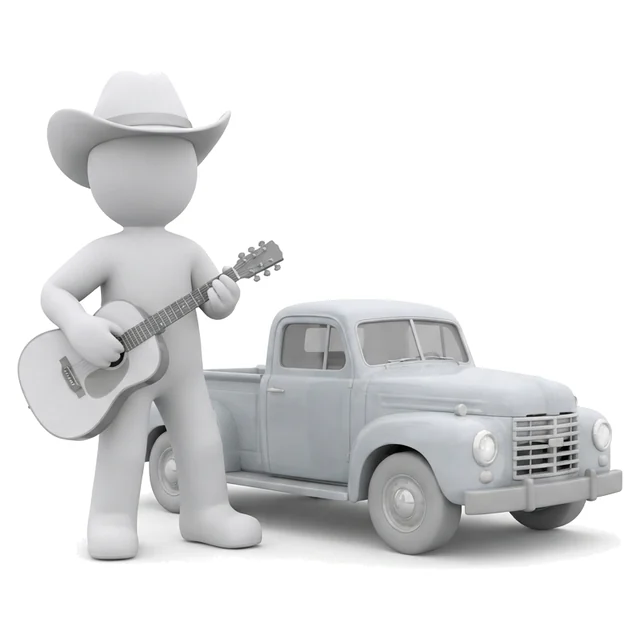
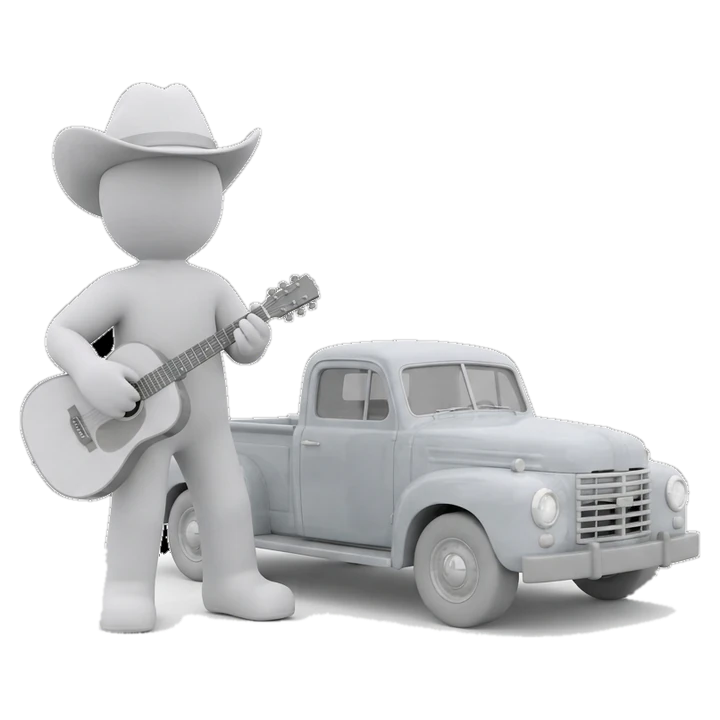
Aftershow: dark room and stage for the clay mannequin acts
Cleaned the floor-shadow dust off the new black-background pictures, made them transparent, and put them back on a dark living room and stage.

diff --git a/aftershow-site/app.html b/aftershow-site/app.html
@@ -12,35 +12,35 @@
 <script>(function(){var t=null;try{t=localStorage.getItem("aftershow-theme")}catch(e){}if(t!=="dark"&&t!=="light")t=(window.matchMedia&&matchMedia("(prefers-color-scheme: light)").matches)?"light":"dark";document.documentElement.dataset.theme=t;})();</script>
 <link rel="preload" href="fonts/inter-variable.woff2" as="font" type="font/woff2" crossorigin>
 <link rel="preload" href="fonts/playfair-display-italic-700.woff2" as="font" type="font/woff2" crossorigin>
-<script type="importmap">{"imports": {"./js/activity.js": "./js/activity.js?v=202611161754", "./js/backends/demo.js": "./js/backends/demo.js?v=202611161754", "./js/config.js": "./js/config.js?v=202611161754", "./js/covers.js": "./js/covers.js?v=202611161754", "./js/csv.js": "./js/csv.js?v=202611161754", "./js/main.js": "./js/main.js?v=202611161754", "./js/photo.js": "./js/photo.js?v=202611161754", "./js/rails.js": "./js/rails.js?v=202611161754", "./js/router.js": "./js/router.js?v=202611161754", "./js/share.js": "./js/share.js?v=202611161754", "./js/social.js": "./js/social.js?v=202611161754", "./js/theme.js": "./js/theme.js?v=202611161754", "./js/ui.js": "./js/ui.js?v=202611161754", "./js/util.js": "./js/util.js?v=202611161754", "./js/views/activity.js": "./js/views/activity.js?v=202611161754", "./js/views/archive.js": "./js/views/archive.js?v=202611161754", "./js/views/discover.js": "./js/views/discover.js?v=202611161754", "./js/views/entry.js": "./js/views/entry.js?v=202611161754", "./js/views/feed.js": "./js/views/feed.js?v=202611161754", "./js/views/import.js": "./js/views/import.js?v=202611161754", "./js/views/log.js": "./js/views/log.js?v=202611161754", "./js/views/onboarding.js": "./js/views/onboarding.js?v=202611161754", "./js/views/photoField.js": "./js/views/photoField.js?v=202611161754", "./js/views/profile.js": "./js/views/profile.js?v=202611161754", "./js/views/settings.js": "./js/views/settings.js?v=202611161754", "./js/views/stageScene.js": "./js/views/stageScene.js?v=202611161754", "./js/views/vote.js": "./js/views/vote.js?v=202611161754"}}</script>
+<script type="importmap">{"imports": {"./js/activity.js": "./js/activity.js?v=202611161820", "./js/backends/demo.js": "./js/backends/demo.js?v=202611161820", "./js/backends/supabase.js": "./js/backends/supabase.js?v=202611161820", "./js/config.js": "./js/config.js?v=202611161820", "./js/covers.js": "./js/covers.js?v=202611161820", "./js/csv.js": "./js/csv.js?v=202611161820", "./js/main.js": "./js/main.js?v=202611161820", "./js/photo.js": "./js/photo.js?v=202611161820", "./js/rails.js": "./js/rails.js?v=202611161820", "./js/router.js": "./js/router.js?v=202611161820", "./js/share.js": "./js/share.js?v=202611161820", "./js/social.js": "./js/social.js?v=202611161820", "./js/theme.js": "./js/theme.js?v=202611161820", "./js/ui.js": "./js/ui.js?v=202611161820", "./js/util.js": "./js/util.js?v=202611161820", "./js/views/activity.js": "./js/views/activity.js?v=202611161820", "./js/views/archive.js": "./js/views/archive.js?v=202611161820", "./js/views/discover.js": "./js/views/discover.js?v=202611161820", "./js/views/entry.js": "./js/views/entry.js?v=202611161820", "./js/views/feed.js": "./js/views/feed.js?v=202611161820", "./js/views/import.js": "./js/views/import.js?v=202611161820", "./js/views/log.js": "./js/views/log.js?v=202611161820", "./js/views/onboarding.js": "./js/views/onboarding.js?v=202611161820", "./js/views/photoField.js": "./js/views/photoField.js?v=202611161820", "./js/views/profile.js": "./js/views/profile.js?v=202611161820", "./js/views/settings.js": "./js/views/settings.js?v=202611161820", "./js/views/stageScene.js": "./js/views/stageScene.js?v=202611161820", "./js/views/vote.js": "./js/views/vote.js?v=202611161820"}}</script>
 <link rel="stylesheet" href="css/fonts.css">
-<link rel="stylesheet" href="ui.css?v=202611161754">
-<link rel="modulepreload" href="js/main.js?v=202611161754">
-<link rel="modulepreload" href="js/ui.js?v=202611161754">
-<link rel="modulepreload" href="js/util.js?v=202611161754">
-<link rel="modulepreload" href="js/router.js?v=202611161754">
-<link rel="modulepreload" href="js/theme.js?v=202611161754">
-<link rel="modulepreload" href="js/covers.js?v=202611161754">
-<link rel="modulepreload" href="js/activity.js?v=202611161754">
-<link rel="modulepreload" href="js/social.js?v=202611161754">
-<link rel="modulepreload" href="js/rails.js?v=202611161754">
-<link rel="modulepreload" href="js/config.js?v=202611161754">
-<link rel="modulepreload" href="js/views/archive.js?v=202611161754">
-<link rel="modulepreload" href="js/views/feed.js?v=202611161754">
-<link rel="modulepreload" href="js/views/entry.js?v=202611161754">
-<link rel="modulepreload" href="js/views/log.js?v=202611161754">
-<link rel="modulepreload" href="js/views/discover.js?v=202611161754">
-<link rel="modulepreload" href="js/views/profile.js?v=202611161754">
-<link rel="modulepreload" href="js/views/settings.js?v=202611161754">
-<link rel="modulepreload" href="js/views/onboarding.js?v=202611161754">
-<link rel="modulepreload" href="js/views/stageScene.js?v=202611161754">
-<link rel="modulepreload" href="js/views/import.js?v=202611161754">
-<link rel="modulepreload" href="js/views/activity.js?v=202611161754">
-<link rel="modulepreload" href="js/views/vote.js?v=202611161754">
-<link rel="modulepreload" href="js/views/photoField.js?v=202611161754">
-<link rel="modulepreload" href="js/photo.js?v=202611161754">
-<link rel="modulepreload" href="js/share.js?v=202611161754">
-<link rel="modulepreload" href="js/csv.js?v=202611161754">
+<link rel="stylesheet" href="ui.css?v=202611161820">
+<link rel="modulepreload" href="js/main.js?v=202611161820">
+<link rel="modulepreload" href="js/ui.js?v=202611161820">
+<link rel="modulepreload" href="js/util.js?v=202611161820">
+<link rel="modulepreload" href="js/router.js?v=202611161820">
+<link rel="modulepreload" href="js/theme.js?v=202611161820">
+<link rel="modulepreload" href="js/covers.js?v=202611161820">
+<link rel="modulepreload" href="js/activity.js?v=202611161820">
+<link rel="modulepreload" href="js/social.js?v=202611161820">
+<link rel="modulepreload" href="js/rails.js?v=202611161820">
+<link rel="modulepreload" href="js/config.js?v=202611161820">
+<link rel="modulepreload" href="js/views/archive.js?v=202611161820">
+<link rel="modulepreload" href="js/views/feed.js?v=202611161820">
+<link rel="modulepreload" href="js/views/entry.js?v=202611161820">
+<link rel="modulepreload" href="js/views/log.js?v=202611161820">
+<link rel="modulepreload" href="js/views/discover.js?v=202611161820">
+<link rel="modulepreload" href="js/views/profile.js?v=202611161820">
+<link rel="modulepreload" href="js/views/settings.js?v=202611161820">
+<link rel="modulepreload" href="js/views/onboarding.js?v=202611161820">
+<link rel="modulepreload" href="js/views/stageScene.js?v=202611161820">
+<link rel="modulepreload" href="js/views/import.js?v=202611161820">
+<link rel="modulepreload" href="js/views/activity.js?v=202611161820">
+<link rel="modulepreload" href="js/views/vote.js?v=202611161820">
+<link rel="modulepreload" href="js/views/photoField.js?v=202611161820">
+<link rel="modulepreload" href="js/photo.js?v=202611161820">
+<link rel="modulepreload" href="js/share.js?v=202611161820">
+<link rel="modulepreload" href="js/csv.js?v=202611161820">
 </head>
 <body>
 <a class="skip-link" href="#main">Skip to content</a>
@@ -100,6 +100,6 @@
   }, 4000);
 })();
 </script>
-<script type="module" src="js/main.js?v=202611161754"></script>
+<script type="module" src="js/main.js?v=202611161820"></script>
 </body>
 </html>

diff --git a/aftershow-site/js/views/stageScene.js b/aftershow-site/js/views/stageScene.js
@@ -1,6 +1,5 @@
 // The onboarding scene: the kind of act someone goes to see, in a living room (private) or on a stage (public).
-// The figures are 3D clay mannequins (assets/acts/*.webp) on a white background. The scene is light and the images use
-// multiply blending, so the white drops out and the figure sits in the room or on the stage.
+// The figures are 3D clay mannequins (assets/acts/*.webp, transparent) standing in a dark room or on a dark stage.
 
 // Acts and their pictures. Rock and K-pop have a different picture for private and public; the others use one for both.
 const SPLIT = new Set(['rock', 'kpop']);
@@ -23,31 +22,31 @@ export const actOf = (genre) => GENRES.find((g) => g.id === genre)?.act || LEGAC
 
 const BG = `<svg class="sc-bg" viewBox="0 0 320 240" preserveAspectRatio="xMidYMid slice" aria-hidden="true" focusable="false">
   <defs>
-    <radialGradient id="scGlow" cx="50%" cy="45%" r="62%"><stop offset="0" stop-color="#ffffff"/><stop offset=".6" stop-color="#fbefd2"/><stop offset="1" stop-color="#efcf8e"/></radialGradient>
-    <radialGradient id="scLamp" cx="50%" cy="50%" r="50%"><stop offset="0" stop-color="#fff2c4" stop-opacity=".95"/><stop offset="1" stop-color="#fff2c4" stop-opacity="0"/></radialGradient>
-    <linearGradient id="scBeam" x1="0" y1="0" x2="0" y2="1"><stop offset="0" stop-color="#fff" stop-opacity=".7"/><stop offset="1" stop-color="#fff" stop-opacity="0"/></linearGradient>
+    <radialGradient id="scLamp" cx="50%" cy="50%" r="50%"><stop offset="0" stop-color="#F4C760" stop-opacity=".55"/><stop offset="1" stop-color="#F4C760" stop-opacity="0"/></radialGradient>
+    <radialGradient id="scSpot" cx="50%" cy="62%" r="60%"><stop offset="0" stop-color="#F4E6B8" stop-opacity=".28"/><stop offset="1" stop-color="#F4E6B8" stop-opacity="0"/></radialGradient>
+    <linearGradient id="scBeam" x1="0" y1="0" x2="0" y2="1"><stop offset="0" stop-color="#F4E6B8" stop-opacity=".5"/><stop offset="1" stop-color="#F4E6B8" stop-opacity="0"/></linearGradient>
   </defs>
   <g class="sc-room">
-    <rect width="320" height="240" fill="#e7e1d5"/>
-    <rect y="176" width="320" height="64" fill="#d2c8b6"/><path d="M0 176H320" stroke="#bfb39e" stroke-width="2"/>
-    <rect x="26" y="34" width="64" height="80" rx="3" fill="#d4e3ef" stroke="#b6aa94" stroke-width="3"/><path d="M58 34V114M26 74H90" stroke="#b6aa94" stroke-width="3"/><circle cx="72" cy="52" r="7" fill="#fff7dd"/>
-    <rect x="216" y="44" width="30" height="40" fill="#caa7a0"/><rect x="252" y="56" width="26" height="34" fill="#a9bccb"/>
-    <rect x="10" y="138" width="92" height="40" rx="9" fill="#b7a287"/><rect x="6" y="158" width="100" height="22" rx="9" fill="#a8927a"/>
-    <circle cx="282" cy="88" r="52" fill="url(#scLamp)"/><path d="M282 92V176" stroke="#8c7a63" stroke-width="3.5"/><path d="M266 92H298L291 70H273Z" fill="#E3B552"/>
-    <ellipse cx="170" cy="196" rx="92" ry="13" fill="#b8a98f" opacity=".6"/>
+    <rect width="320" height="240" fill="#1a1510"/>
+    <rect y="176" width="320" height="64" fill="#241a12"/><path d="M0 176H320" stroke="#3a2c1e" stroke-width="2"/>
+    <rect x="26" y="34" width="64" height="80" rx="3" fill="#0d1626" stroke="#3a2e22" stroke-width="3"/><path d="M58 34V114M26 74H90" stroke="#3a2e22" stroke-width="3"/><circle cx="72" cy="52" r="7" fill="#E9E2CC" opacity=".9"/>
+    <rect x="216" y="44" width="30" height="40" fill="#5c2b2b"/><rect x="252" y="56" width="26" height="34" fill="#2a4560"/>
+    <rect x="10" y="138" width="92" height="40" rx="9" fill="#2d2118"/><rect x="6" y="158" width="100" height="22" rx="9" fill="#38291d"/>
+    <circle cx="282" cy="88" r="56" fill="url(#scLamp)"/><path d="M282 92V176" stroke="#4a3a28" stroke-width="3.5"/><path d="M266 92H298L291 70H273Z" fill="#E3B552" opacity=".92"/>
+    <ellipse cx="170" cy="200" rx="96" ry="14" fill="#3a1f1a" opacity=".8"/>
   </g>
   <g class="sc-stage">
-    <rect width="320" height="240" fill="url(#scGlow)"/>
-    <rect width="320" height="16" fill="#a9824a"/>
-    <circle cx="70" cy="16" r="6" fill="#fff6dc"/><circle cx="160" cy="16" r="6" fill="#fff6dc"/><circle cx="250" cy="16" r="6" fill="#fff6dc"/>
+    <rect width="320" height="240" fill="#0c0b10"/><rect width="320" height="240" fill="url(#scSpot)"/>
+    <rect width="320" height="16" fill="#1d1b27"/>
+    <circle cx="70" cy="16" r="6" fill="#F4E6B8"/><circle cx="160" cy="16" r="6" fill="#F4E6B8"/><circle cx="250" cy="16" r="6" fill="#F4E6B8"/>
     <path d="M62 16L78 16L184 200L98 200Z" fill="url(#scBeam)"/><path d="M242 16L258 16L222 200L136 200Z" fill="url(#scBeam)"/><path d="M152 16L168 16L214 200L106 200Z" fill="url(#scBeam)" opacity=".6"/>
-    <rect y="178" width="320" height="26" fill="#e0b46c"/><path d="M0 204H320" stroke="#8a5a1f" stroke-width="2.5"/>
+    <rect y="178" width="320" height="26" fill="#1b1824"/><path d="M0 204H320" stroke="#E3B552" stroke-width="2.5" opacity=".75"/>
   </g>
 </svg>`;
 
 // Fans in front of the stage, with a few phones held up.
-const person = (x, h, arm) => `<g transform="translate(${x} 0)"><circle cx="0" cy="${235 - h}" r="9"/><path d="M-14 240Q-14 ${240 - h + 4} 0 ${240 - h + 4}Q14 ${240 - h + 4} 14 240Z"/>${arm ? `<path d="M10 ${240 - h + 10}L18 ${240 - h - 14}" stroke="#4a382a" stroke-width="5" stroke-linecap="round"/><rect class="sc-phone" x="13" y="${240 - h - 26}" width="9" height="13" rx="2" transform="rotate(10 17 ${240 - h - 20})"/>` : ''}</g>`;
-const CROWD = `<svg class="sc-crowd" viewBox="0 0 320 240" preserveAspectRatio="xMidYMid slice" aria-hidden="true" focusable="false"><g fill="#4a382a">${[[18, 38, 0], [52, 30, 1], [88, 40, 0], [126, 28, 0], [166, 38, 1], [206, 30, 0], [244, 40, 0], [282, 32, 1], [314, 38, 0]].map(([x, h, a]) => person(x, h, a)).join('')}</g></svg>`;
+const person = (x, h, arm) => `<g transform="translate(${x} 0)"><circle cx="0" cy="${235 - h}" r="9"/><path d="M-14 240Q-14 ${240 - h + 4} 0 ${240 - h + 4}Q14 ${240 - h + 4} 14 240Z"/>${arm ? `<path d="M10 ${240 - h + 10}L18 ${240 - h - 14}" stroke="#08070b" stroke-width="5" stroke-linecap="round"/><rect class="sc-phone" x="13" y="${240 - h - 26}" width="9" height="13" rx="2" transform="rotate(10 17 ${240 - h - 20})"/>` : ''}</g>`;
+const CROWD = `<svg class="sc-crowd" viewBox="0 0 320 240" preserveAspectRatio="xMidYMid slice" aria-hidden="true" focusable="false"><g fill="#08070b" stroke="#E3B552" stroke-opacity=".28" stroke-width="1.2">${[[18, 38, 0], [52, 30, 1], [88, 40, 0], [126, 28, 0], [166, 38, 1], [206, 30, 0], [244, 40, 0], [282, 32, 1], [314, 38, 0]].map(([x, h, a]) => person(x, h, a)).join('')}</g></svg>`;
 
 /** The scene. `genres` is up to three picks, favourite first: the first stands in the middle, the second and third beside it on the stage. */
 export const sceneHtml = (genres) => {

diff --git a/aftershow-site/ui.css b/aftershow-site/ui.css
@@ -1171,8 +1171,8 @@ select{font:inherit;color:inherit;}
 .sc{position:relative;aspect-ratio:4/3;overflow:hidden;isolation:isolate;}
 .sc-bg,.sc-crowd{position:absolute;inset:0;width:100%;height:100%;display:block;}
 .sc-crowd{z-index:3;}
-/* the pictures have a white background: multiply lets the room or stage show through it */
-.sc-fig{position:absolute;display:block;mix-blend-mode:multiply;height:auto;z-index:2;transition:opacity .55s ease,transform .55s ease;}
+/* transparent pictures; a soft drop shadow seats each figure on the floor */
+.sc-fig{position:absolute;display:block;height:auto;z-index:2;filter:drop-shadow(0 10px 12px rgba(0,0,0,.55));transition:opacity .55s ease,transform .55s ease;}
 .sc-mid{left:50%;width:64.5%;transform:translateX(-50%);bottom:4%;}
 .sc-side{width:40%;bottom:17%;opacity:0;z-index:1;}
 .sc-l{left:-9%;}.sc-r{right:-9%;}
@@ -1182,7 +1182,7 @@ select{font:inherit;color:inherit;}
 .pv-one[data-mode=public] .sc-side{opacity:.96;}
 .pv-one[data-mode=public] .sc-mid{bottom:11%;}
 .pv-caption{padding:10px 14px 12px;font:400 12px/1.45 var(--mono);color:rgba(255,255,255,.75);background:#0f0f11;}
-.sc-phone{fill:#fff3c8;}
+.sc-phone{fill:#F4E6B8;stroke:none;}
 .pv-one[data-mode=public] .sc-phone{animation:phone-glow 2.4s ease-in-out infinite;}
 @keyframes phone-glow{0%,100%{opacity:1}50%{opacity:.45}}
 .pv-one .pv-points{margin:0;}
